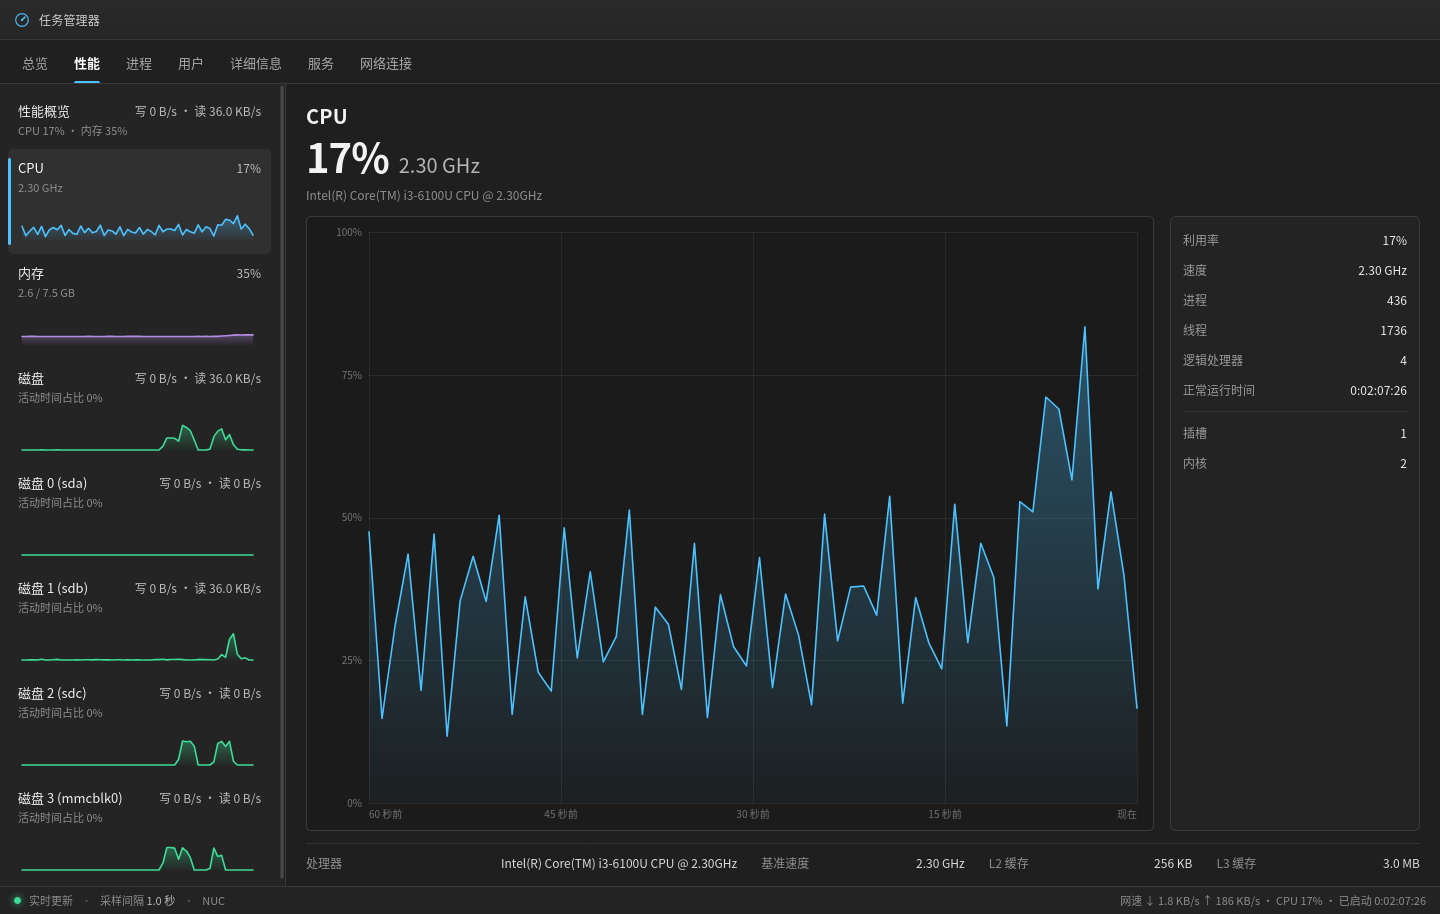
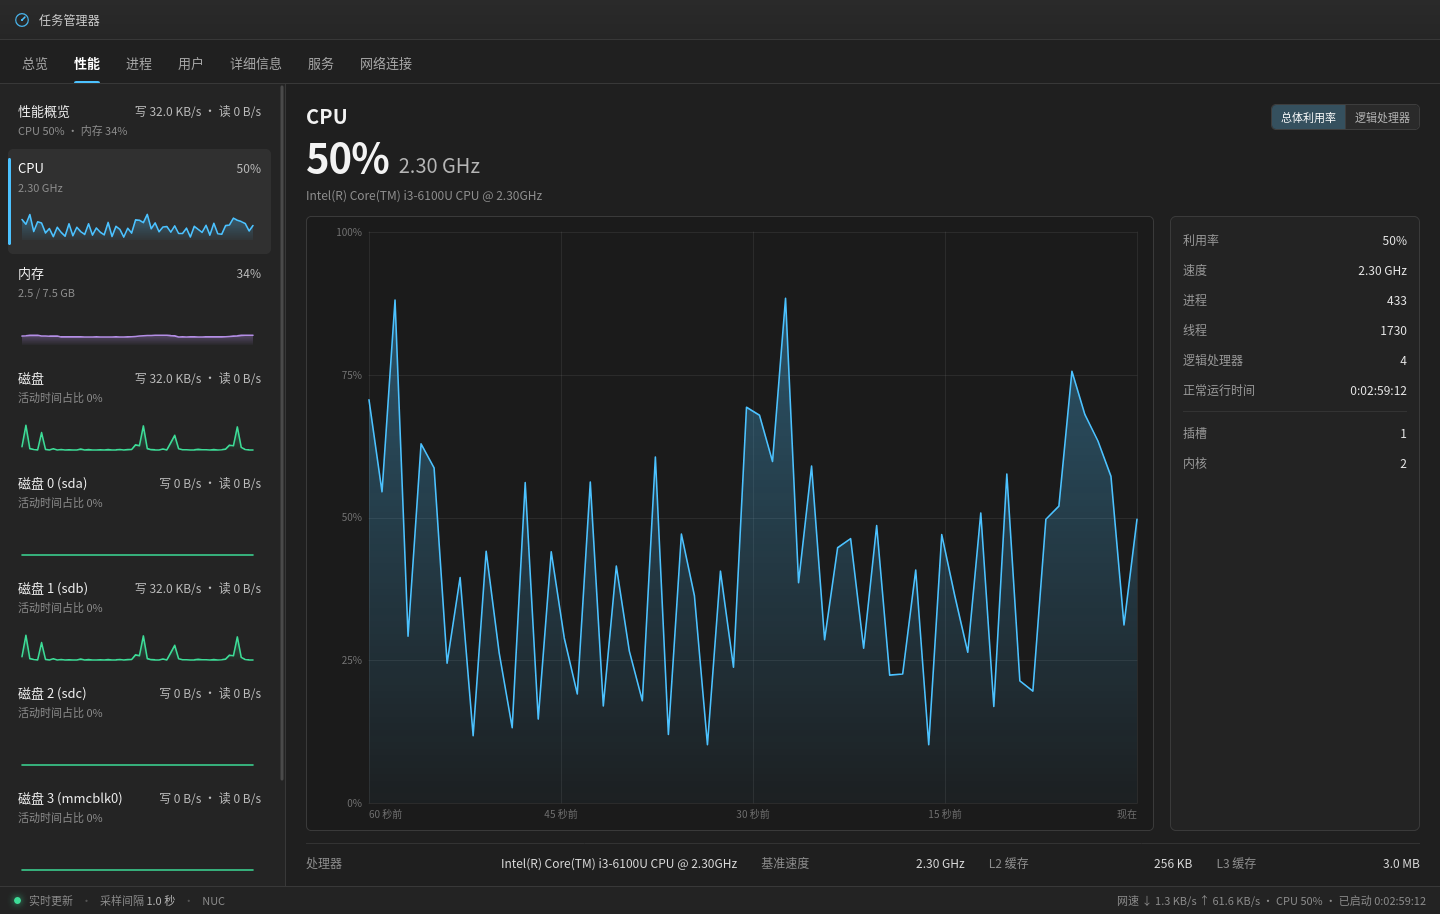
Add CPU total/per-core utilization toggle

diff --git a/public/app.js b/public/app.js
@@ -17,6 +17,7 @@
     samples: [],
     networkSeries: [],
     view: 'overview',
+    cpuMode: 'total',
     diskName: null,
     diskSig: '',
     diskRows: [],
@@ -208,6 +209,12 @@
           : new Array(this.opts.window - rest.length).fill(null).concat(rest);
       });
       this.scaleMax = this.computeScale();
+      this.draw();
+    }
+
+    setSeries(series) {
+      this.opts.series = series;
+      this.data = series.map(() => []);
       this.draw();
     }
 
@@ -438,6 +445,73 @@
       payload.x,
       payload.y
     );
+  }
+
+  const CPU_CORE_COLORS = ['#4cc2ff', '#3ddc97', '#f0b24a', '#b48ee6', '#ff6b6b', '#6fd3e8', '#c7d36f', '#e89ad0'];
+
+  function cpuCoreColor(index) {
+    return CPU_CORE_COLORS[index % CPU_CORE_COLORS.length];
+  }
+
+  function cpuCoresTooltip(payload) {
+    if (!payload) return hideTooltip();
+    const rows = payload.values.map((value, index) => ({
+      color: cpuCoreColor(index),
+      label: `逻辑处理器 ${index}`,
+      value: value == null ? '—' : pct(value),
+    }));
+    showTooltip(timeLabel(payload.index), rows, payload.x, payload.y);
+  }
+
+  function renderCpuLegend(count) {
+    const el = $('#cpuLegend');
+    if (!el) return;
+    if (!count) {
+      el.hidden = true;
+      el.innerHTML = '';
+      return;
+    }
+    el.hidden = false;
+    el.innerHTML = Array.from(
+      { length: count },
+      (_, index) =>
+        `<span class="cpu-legend-item"><i style="background:${cpuCoreColor(index)}"></i>CPU ${index}</span>`
+    ).join('');
+  }
+
+  function updateCpuPerformance(last, cpuSeries) {
+    const cores = (last.cpu && last.cpu.perCore) || [];
+    if (state.cpuMode === 'cores' && cores.length) {
+      const series = cores.map((_, index) => ({
+        color: cpuCoreColor(index),
+        fill: false,
+        width: 1.35,
+      }));
+      const data = cores.map((_, index) =>
+        pad60(state.samples.map((sample) => sample.cpu.perCore?.[index] ?? null))
+      );
+      if (charts.cpu) {
+        charts.cpu.setSeries(series);
+        charts.cpu.opts.tooltip = cpuCoresTooltip;
+        charts.cpu.setData(data);
+      }
+      renderCpuLegend(cores.length);
+    } else {
+      if (charts.cpu) {
+        charts.cpu.setSeries([{ color: COLORS.cpu, fill: true, width: 1.6 }]);
+        charts.cpu.opts.tooltip = cpuTooltip;
+        charts.cpu.setData([cpuSeries]);
+      }
+      renderCpuLegend(0);
+    }
+  }
+
+  function setCpuMode(mode) {
+    state.cpuMode = mode === 'cores' ? 'cores' : 'total';
+    $$('#cpuModeToggle [data-cpu-mode]').forEach((btn) => {
+      btn.classList.toggle('active', btn.dataset.cpuMode === state.cpuMode);
+    });
+    render();
   }
 
   function memTooltip(payload) {
@@ -786,7 +860,7 @@
     charts.ovMem.setData([memSeries]);
     charts.ovDisk.setData([writeSeries, readSeries]);
 
-    charts.cpu.setData([cpuSeries]);
+    updateCpuPerformance(last, cpuSeries);
     charts.mem.setData([memSeries]);
 
     /* 侧边栏 */
@@ -2942,6 +3016,10 @@ async function loadProcesses() {
           toast('这个页面暂未实现');
         }
       });
+    });
+
+    $$('#cpuModeToggle [data-cpu-mode]').forEach((btn) => {
+      btn.addEventListener('click', () => setCpuMode(btn.dataset.cpuMode));
     });
 
     const treeRows = $('#treeRows');

diff --git a/public/style.css b/public/style.css
@@ -2780,3 +2780,68 @@ body {
 #ovNetCard:hover {
   border-color: #4f6a7a;
 }
+
+
+/* CPU 总体 / 每逻辑处理器切换 */
+.cpu-head-side {
+  align-items: flex-end;
+  gap: 7px;
+}
+
+.segmented {
+  display: flex;
+  border: 1px solid #3d3d3d;
+  border-radius: 5px;
+  overflow: hidden;
+}
+
+.segmented button {
+  padding: 4px 9px;
+  border: 0;
+  background: #2a2a2a;
+  color: #b8b8b8;
+  font-size: 11px;
+  line-height: 16px;
+  cursor: pointer;
+}
+
+.segmented button + button {
+  border-left: 1px solid #3d3d3d;
+}
+
+.segmented button:hover {
+  background: #333;
+  color: #fff;
+}
+
+.segmented button.active {
+  background: #35505e;
+  color: #ffffff;
+}
+
+.cpu-legend {
+  display: flex;
+  flex-wrap: wrap;
+  justify-content: flex-end;
+  gap: 4px 9px;
+  max-width: 430px;
+}
+
+.cpu-legend[hidden] {
+  display: none;
+}
+
+.cpu-legend-item {
+  display: inline-flex;
+  align-items: center;
+  gap: 4px;
+  color: #9a9a9a;
+  font-size: 10px;
+}
+
+.cpu-legend-item i {
+  display: inline-block;
+  width: 7px;
+  height: 7px;
+  border-radius: 50%;
+}

diff --git a/public/index.html b/public/index.html
@@ -399,6 +399,13 @@
             <div class="big-line"><span class="big-val" id="cpuPct">--</span><span class="big-speed" id="cpuSpeedInline">--</span></div>
             <div class="big-sub" id="cpuModel">—</div>
           </div>
+          <div class="head-side cpu-head-side">
+            <div class="segmented" id="cpuModeToggle" role="group" aria-label="CPU 显示模式">
+              <button type="button" data-cpu-mode="total" class="active">总体利用率</button>
+              <button type="button" data-cpu-mode="cores">逻辑处理器</button>
+            </div>
+            <div class="cpu-legend" id="cpuLegend" hidden></div>
+          </div>
         </header>
 
         <div class="detail-body">
